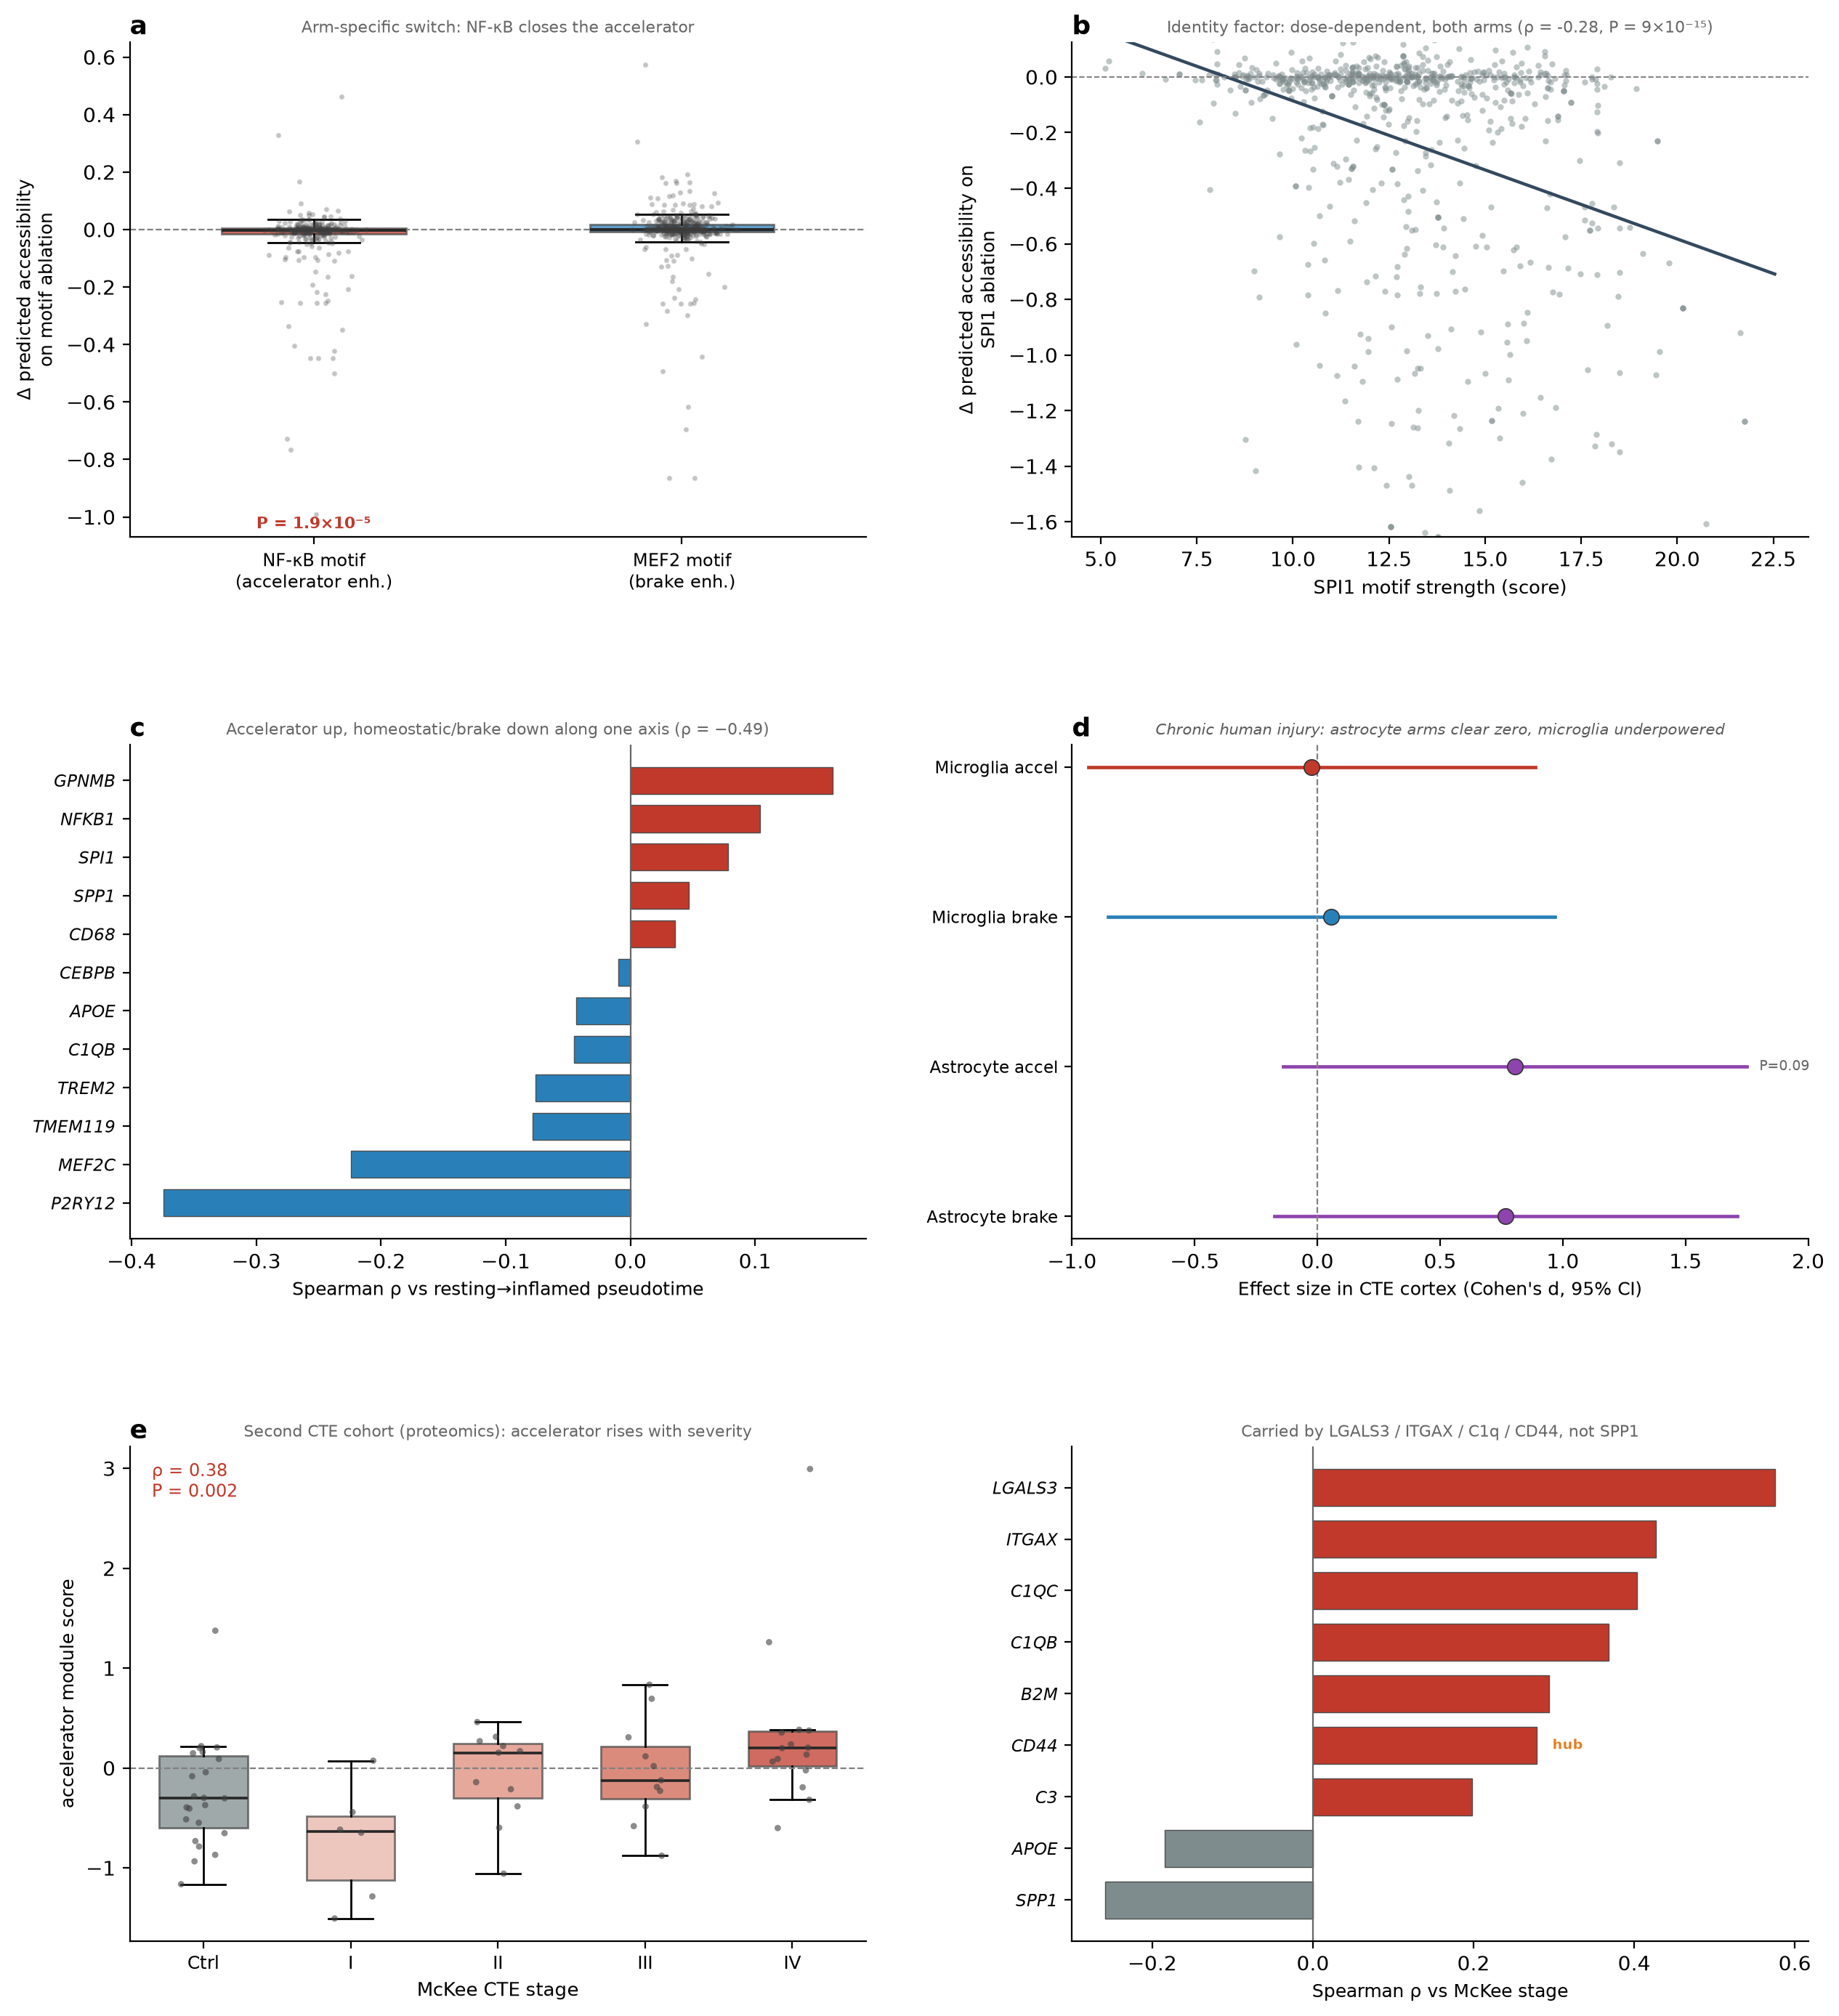
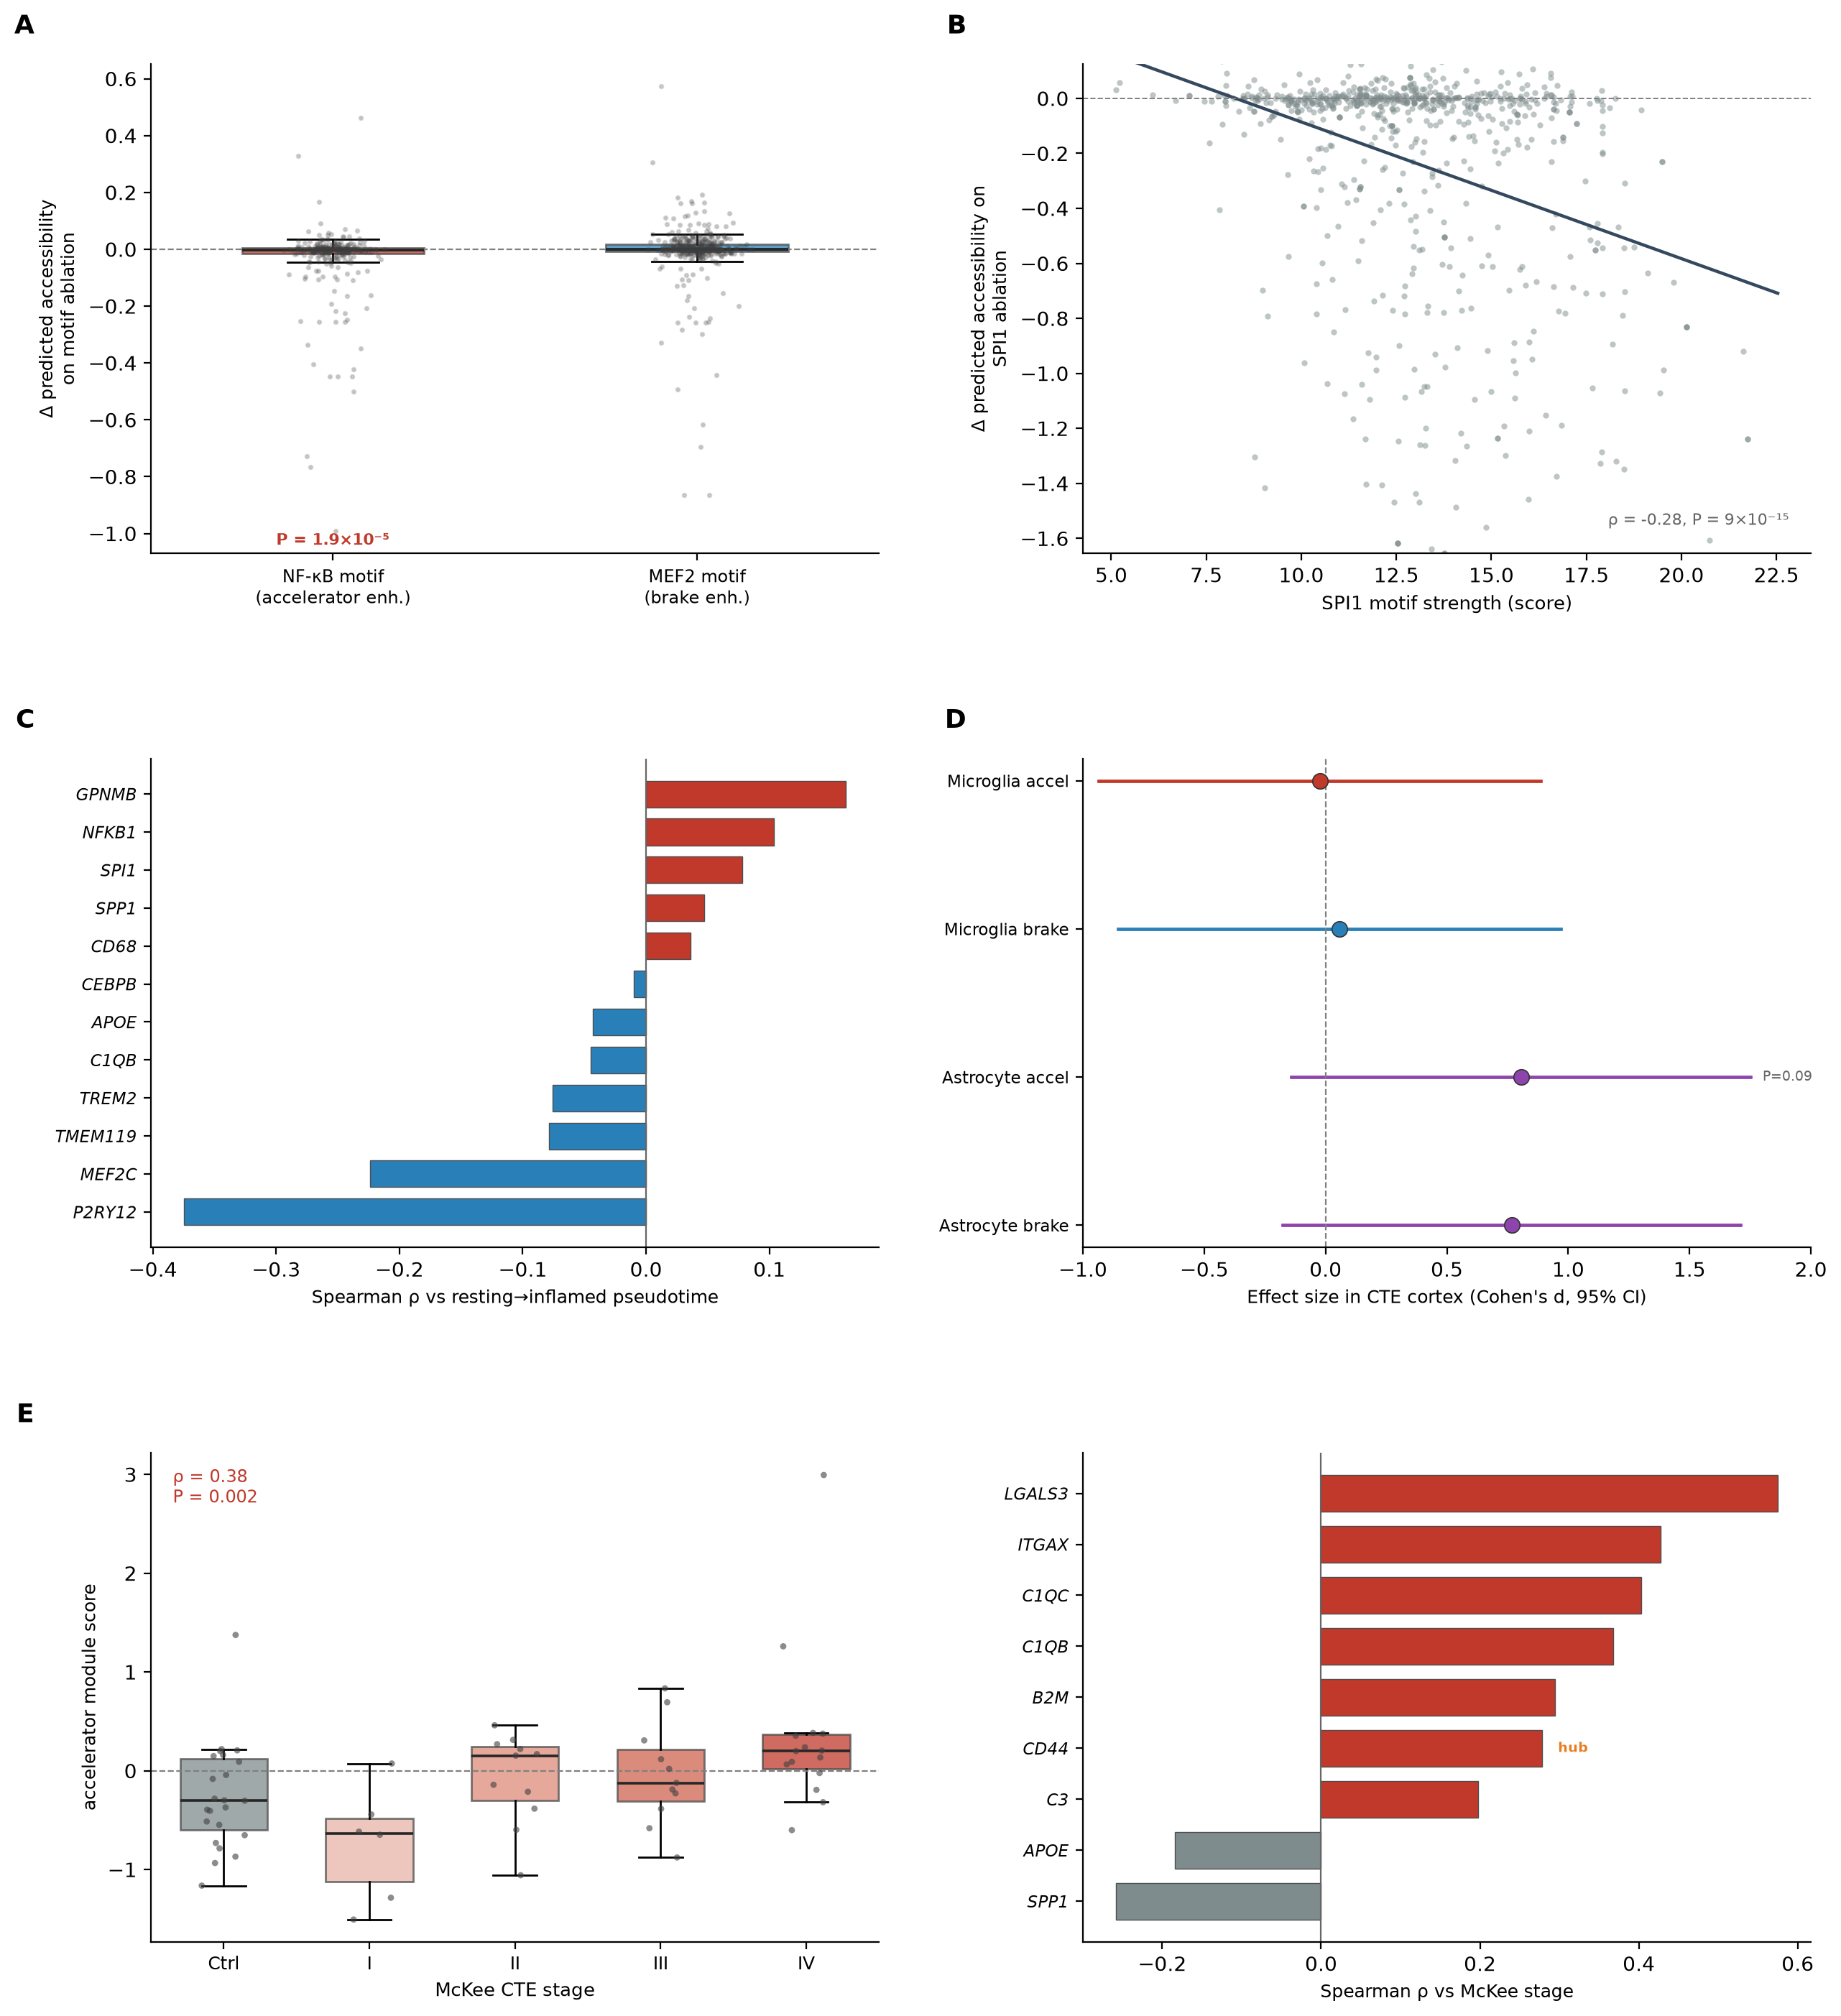
Supp Figs 1 & 3: remove in-figure subpanel titles, capital A-G letters
House style (matching main figures): no descriptive subpanel titles — only
bold capital panel letters (top-left, outside axes), axis labels, in-figure
stats/P-values, and legends. Interpretation lives in the text legend.
Retained numeric stats (S-LDSC 31%/21x/P, ChromBPNet MWU P=0.005, SPI1 rho/P,
CTE rho=0.38) as bare in-figure annotations.

diff --git a/figures/build_supplementary_figure3.py b/figures/build_supplementary_figure3.py
@@ -38,8 +38,9 @@ plt.rcParams.update({"font.size": 10, "axes.spines.top": False,
                      "axes.spines.right": False, "svg.fonttype": "none"})
 
 
-def stamp(ax, letter):
-    ax.set_title(letter, loc="left", fontweight="bold", fontsize=13, pad=4)
+def stamp(ax, letter, dx=-0.16):
+    ax.text(dx, 1.05, letter, transform=ax.transAxes, fontsize=13,
+            fontweight="bold", va="bottom", ha="right")
 
 
 def dci(d, n1, n2):
@@ -80,9 +81,7 @@ def main():
     ax.set_ylabel("\u0394 predicted accessibility\non motif ablation", fontsize=9)
     ax.text(0, nf.min() - 0.006, "P = 1.9\u00d710\u207b\u2075", ha="center", va="top",
             fontsize=8, color=ACC, fontweight="bold")
-    ax.text(0.5, 1.02, "Arm-specific switch: NF-\u03baB closes the accelerator",
-            transform=ax.transAxes, ha="center", fontsize=8, color="0.4")
-    stamp(ax, "a")
+    stamp(ax, "A")
 
     # b: SPI1 dose-response
     ax = fig.add_subplot(gs[0, 1])
@@ -94,9 +93,9 @@ def main():
     ax.set_xlabel("SPI1 motif strength (score)", fontsize=9.5)
     ax.set_ylabel("\u0394 predicted accessibility on\nSPI1 ablation", fontsize=9)
     ax.set_ylim(np.percentile(cb["SPI1_delta"], 1.5), np.percentile(cb["SPI1_delta"], 98.5))
-    ax.text(0.5, 1.02, f"Identity factor: dose-dependent, both arms (\u03c1 = {rho:.2f}, P = 9\u00d710\u207b\u00b9\u2075)",
-            transform=ax.transAxes, ha="center", fontsize=8, color="0.4")
-    stamp(ax, "b")
+    ax.text(0.97, 0.05, f"\u03c1 = {rho:.2f}, P = 9\u00d710\u207b\u00b9\u2075",
+            transform=ax.transAxes, ha="right", va="bottom", fontsize=8, color="0.4")
+    stamp(ax, "B")
 
     # c: pseudotime drivers
     ax = fig.add_subplot(gs[1, 0])
@@ -108,9 +107,7 @@ def main():
     ax.set_yticks(y)
     ax.set_yticklabels(ps["gene"], fontsize=8.3, fontstyle="italic")
     ax.set_xlabel("Spearman \u03c1 vs resting\u2192inflamed pseudotime", fontsize=9)
-    ax.text(0.5, 1.02, "Accelerator up, homeostatic/brake down along one axis (\u03c1 = \u22120.49)",
-            transform=ax.transAxes, ha="center", fontsize=7.8, color="0.4")
-    stamp(ax, "c")
+    stamp(ax, "C")
 
     # d: CTE forest
     ax = fig.add_subplot(gs[1, 1])
@@ -130,9 +127,7 @@ def main():
     ax.set_yticklabels([r[0] for r in rows], fontsize=8.3)
     ax.set_xlabel("Effect size in CTE cortex (Cohen's d, 95% CI)", fontsize=9)
     ax.set_xlim(-1.0, 2.0)
-    ax.text(0.5, 1.02, "Chronic human injury: astrocyte arms clear zero, microglia underpowered",
-            transform=ax.transAxes, ha="center", fontsize=7.6, color="0.35", style="italic")
-    stamp(ax, "d")
+    stamp(ax, "D")
 
     # e-left: accelerator module by McKee stage (second CTE cohort, proteomics)
     HL = "#e67e22"
@@ -155,9 +150,7 @@ def main():
     ax.set_ylabel("accelerator module score", fontsize=9)
     ax.text(0.03, 0.97, f"\u03c1 = {rho_s:.2f}\nP = {p_s:.3f}", transform=ax.transAxes,
             fontsize=8.5, va="top", ha="left", color=ACC)
-    ax.text(0.5, 1.02, "Second CTE cohort (proteomics): accelerator rises with severity",
-            transform=ax.transAxes, ha="center", fontsize=7.8, color="0.4")
-    stamp(ax, "e")
+    stamp(ax, "E")
 
     # e-right: per-protein trend vs McKee stage
     ax = fig.add_subplot(gs[2, 1])
@@ -172,8 +165,6 @@ def main():
         if g == "CD44":
             ax.text(tr["rho"].values[gi] + 0.02, gi, "hub", fontsize=7,
                     color=HL, va="center", fontweight="bold")
-    ax.text(0.5, 1.02, "Carried by LGALS3 / ITGAX / C1q / CD44, not SPP1",
-            transform=ax.transAxes, ha="center", fontsize=7.8, color="0.4")
 
     fig.savefig(OUT, dpi=200, bbox_inches="tight")
     print(f"wrote {OUT}")

diff --git a/figures/build_supplementary_figure1.py b/figures/build_supplementary_figure1.py
@@ -32,8 +32,9 @@ plt.rcParams.update({"font.size": 10, "axes.spines.top": False,
                      "axes.spines.right": False, "svg.fonttype": "none"})
 
 
-def stamp(ax, letter):
-    ax.set_title(letter, loc="left", fontweight="bold", fontsize=13, pad=4)
+def stamp(ax, letter, dx=-0.16):
+    ax.text(dx, 1.05, letter, transform=ax.transAxes, fontsize=13,
+            fontweight="bold", va="bottom", ha="right")
 
 
 def main():
@@ -71,7 +72,7 @@ def main():
     ax.text(2, 0.07, "0 variants", ha="center", va="bottom", fontsize=8, color=BRK)
     ax.text(0.97, 0.06, "no enrichment (OR=1)", transform=ax.transAxes,
             ha="right", va="bottom", fontsize=7.5, color="0.5")
-    stamp(ax, "a")
+    stamp(ax, "A")
 
     # b: ChromBPNet scatter
     ax = fig.add_subplot(gs[0, 1])
@@ -94,9 +95,9 @@ def main():
     ax.set_ylim(-0.002, 0.062)
     ax.legend(loc="upper right", fontsize=8, frameon=False, handletextpad=0.3,
               bbox_to_anchor=(1.0, 0.83))
-    ax.text(0.98, 0.97, "AD-associated accelerator variants\ndisrupt chromatin more (MWU P = 0.005)",
-            transform=ax.transAxes, ha="right", va="top", fontsize=8, color="0.3")
-    stamp(ax, "b")
+    ax.text(0.98, 0.97, "MWU P = 0.005", transform=ax.transAxes,
+            ha="right", va="top", fontsize=8, color="0.3")
+    stamp(ax, "B")
 
     # c: S-LDSC z forest (arm z-scores are the validated summary statistics)
     ax = fig.add_subplot(gs[1, 0])
@@ -122,11 +123,11 @@ def main():
     _sup = str.maketrans("0123456789-", "\u2070\u00b9\u00b2\u00b3\u2074\u2075\u2076\u2077\u2078\u2079\u207b")
     _mant, _exp = f"{_ep:.1e}".split("e")
     _ptxt = f"{_mant}\u00d710{str(int(_exp)).translate(_sup)}"
-    ax.text(0.5, 1.06,
-            f"Microglial DNA: {_ph2:.0f}% of AD heritability, {_enr:.0f}\u00d7 enrichment, P = {_ptxt}",
-            transform=ax.transAxes, ha="center", va="bottom", fontsize=8.3,
-            color=GEN, fontweight="bold")
-    stamp(ax, "c")
+    ax.text(0.97, 0.06,
+            f"{_ph2:.0f}% of h\u00b2, {_enr:.0f}\u00d7, P = {_ptxt}",
+            transform=ax.transAxes, ha="right", va="bottom", fontsize=8.0,
+            color=GEN)
+    stamp(ax, "C")
 
     # d: coloc layers (values computed above from CSVs)
     ax = fig.add_subplot(gs[1, 1])
@@ -143,10 +144,7 @@ def main():
     ax.set_yticklabels([n for n, _ in layers], fontsize=8.3)
     ax.set_xlim(0, 1.0)
     ax.set_xlabel("Max posterior prob. of shared causal variant (PP4)", fontsize=8.8)
-    ax.text(0.5, -0.24, "Effectors regulated but AD-independent \u2014 inherited risk enters only at\n"
-            "APOE/TREM2 (trigger \u2260 threshold)", transform=ax.transAxes, ha="center",
-            va="top", fontsize=7.6, color="0.35", style="italic")
-    stamp(ax, "d")
+    stamp(ax, "D")
 
     fig.savefig(OUT, dpi=200, bbox_inches="tight")
     print(f"wrote {OUT}")